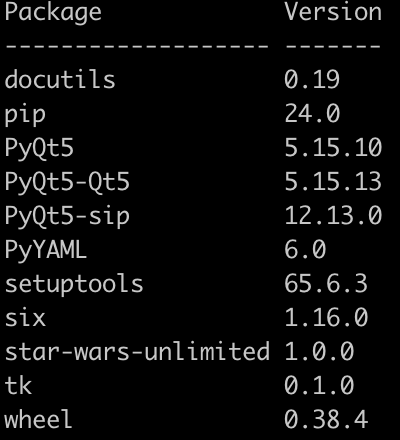
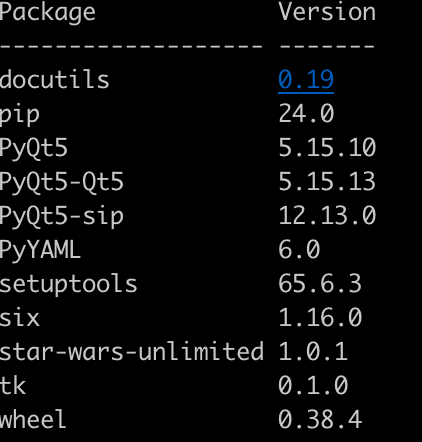
Updated with the version 1.0.1

diff --git a/README.md b/README.md
@@ -8,7 +8,7 @@ If you want to import the decks in [swudb.com](https://swudb.com/) or you want t
 
 You can install the whl package by using:
 ```
-pip install star_wars_unlimited-1.0.0-py3-none-any-whl
+pip install star_wars_unlimited-1.0.1-py3-none-any.whl
 ```
 
 You can check the path of the installation by using:
@@ -25,12 +25,11 @@ pip list
 ## How to
 You can use the python3 script executing it with:
 ```
-python3 star_wars_unlimited.py
+python3 swu.py
 ```
 and the first question is if you  want to import the deck .json file (taken from SWUDB.com) or a booster pack .json file from TTS:
 
 ![](images/question.png) 
-
 
 Localize your json file (of a deck on swudb.com) or TTS
 
